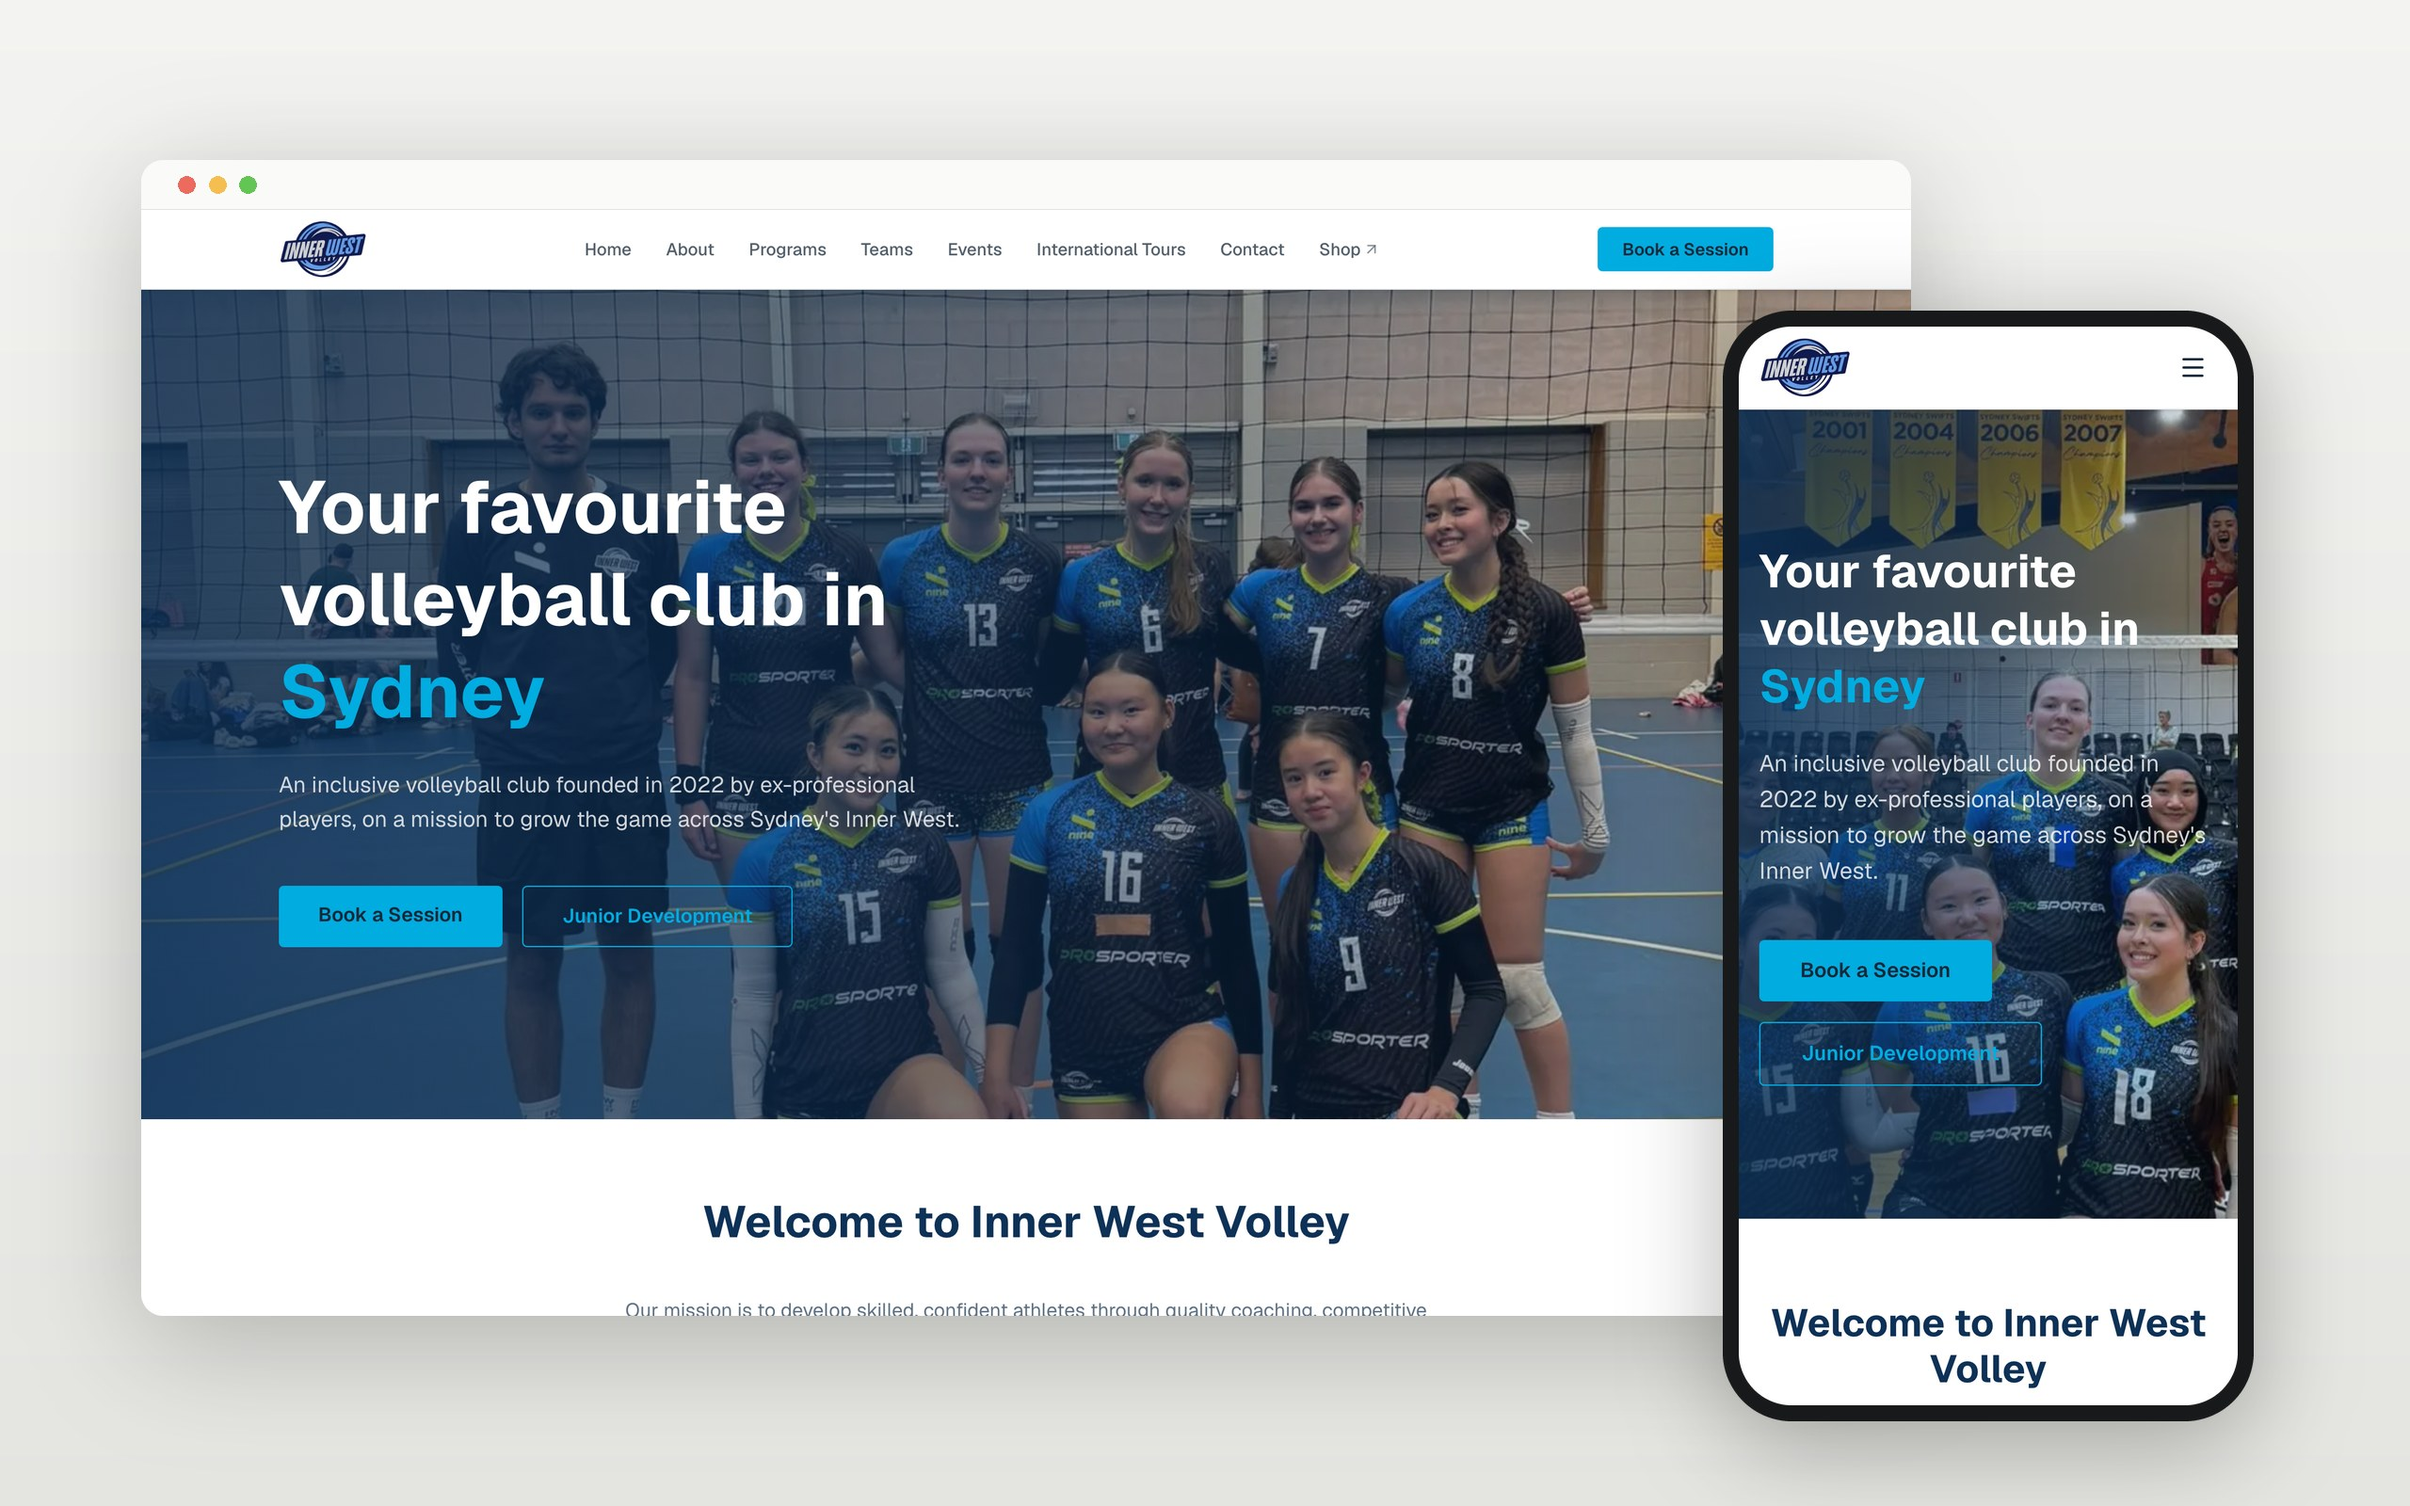
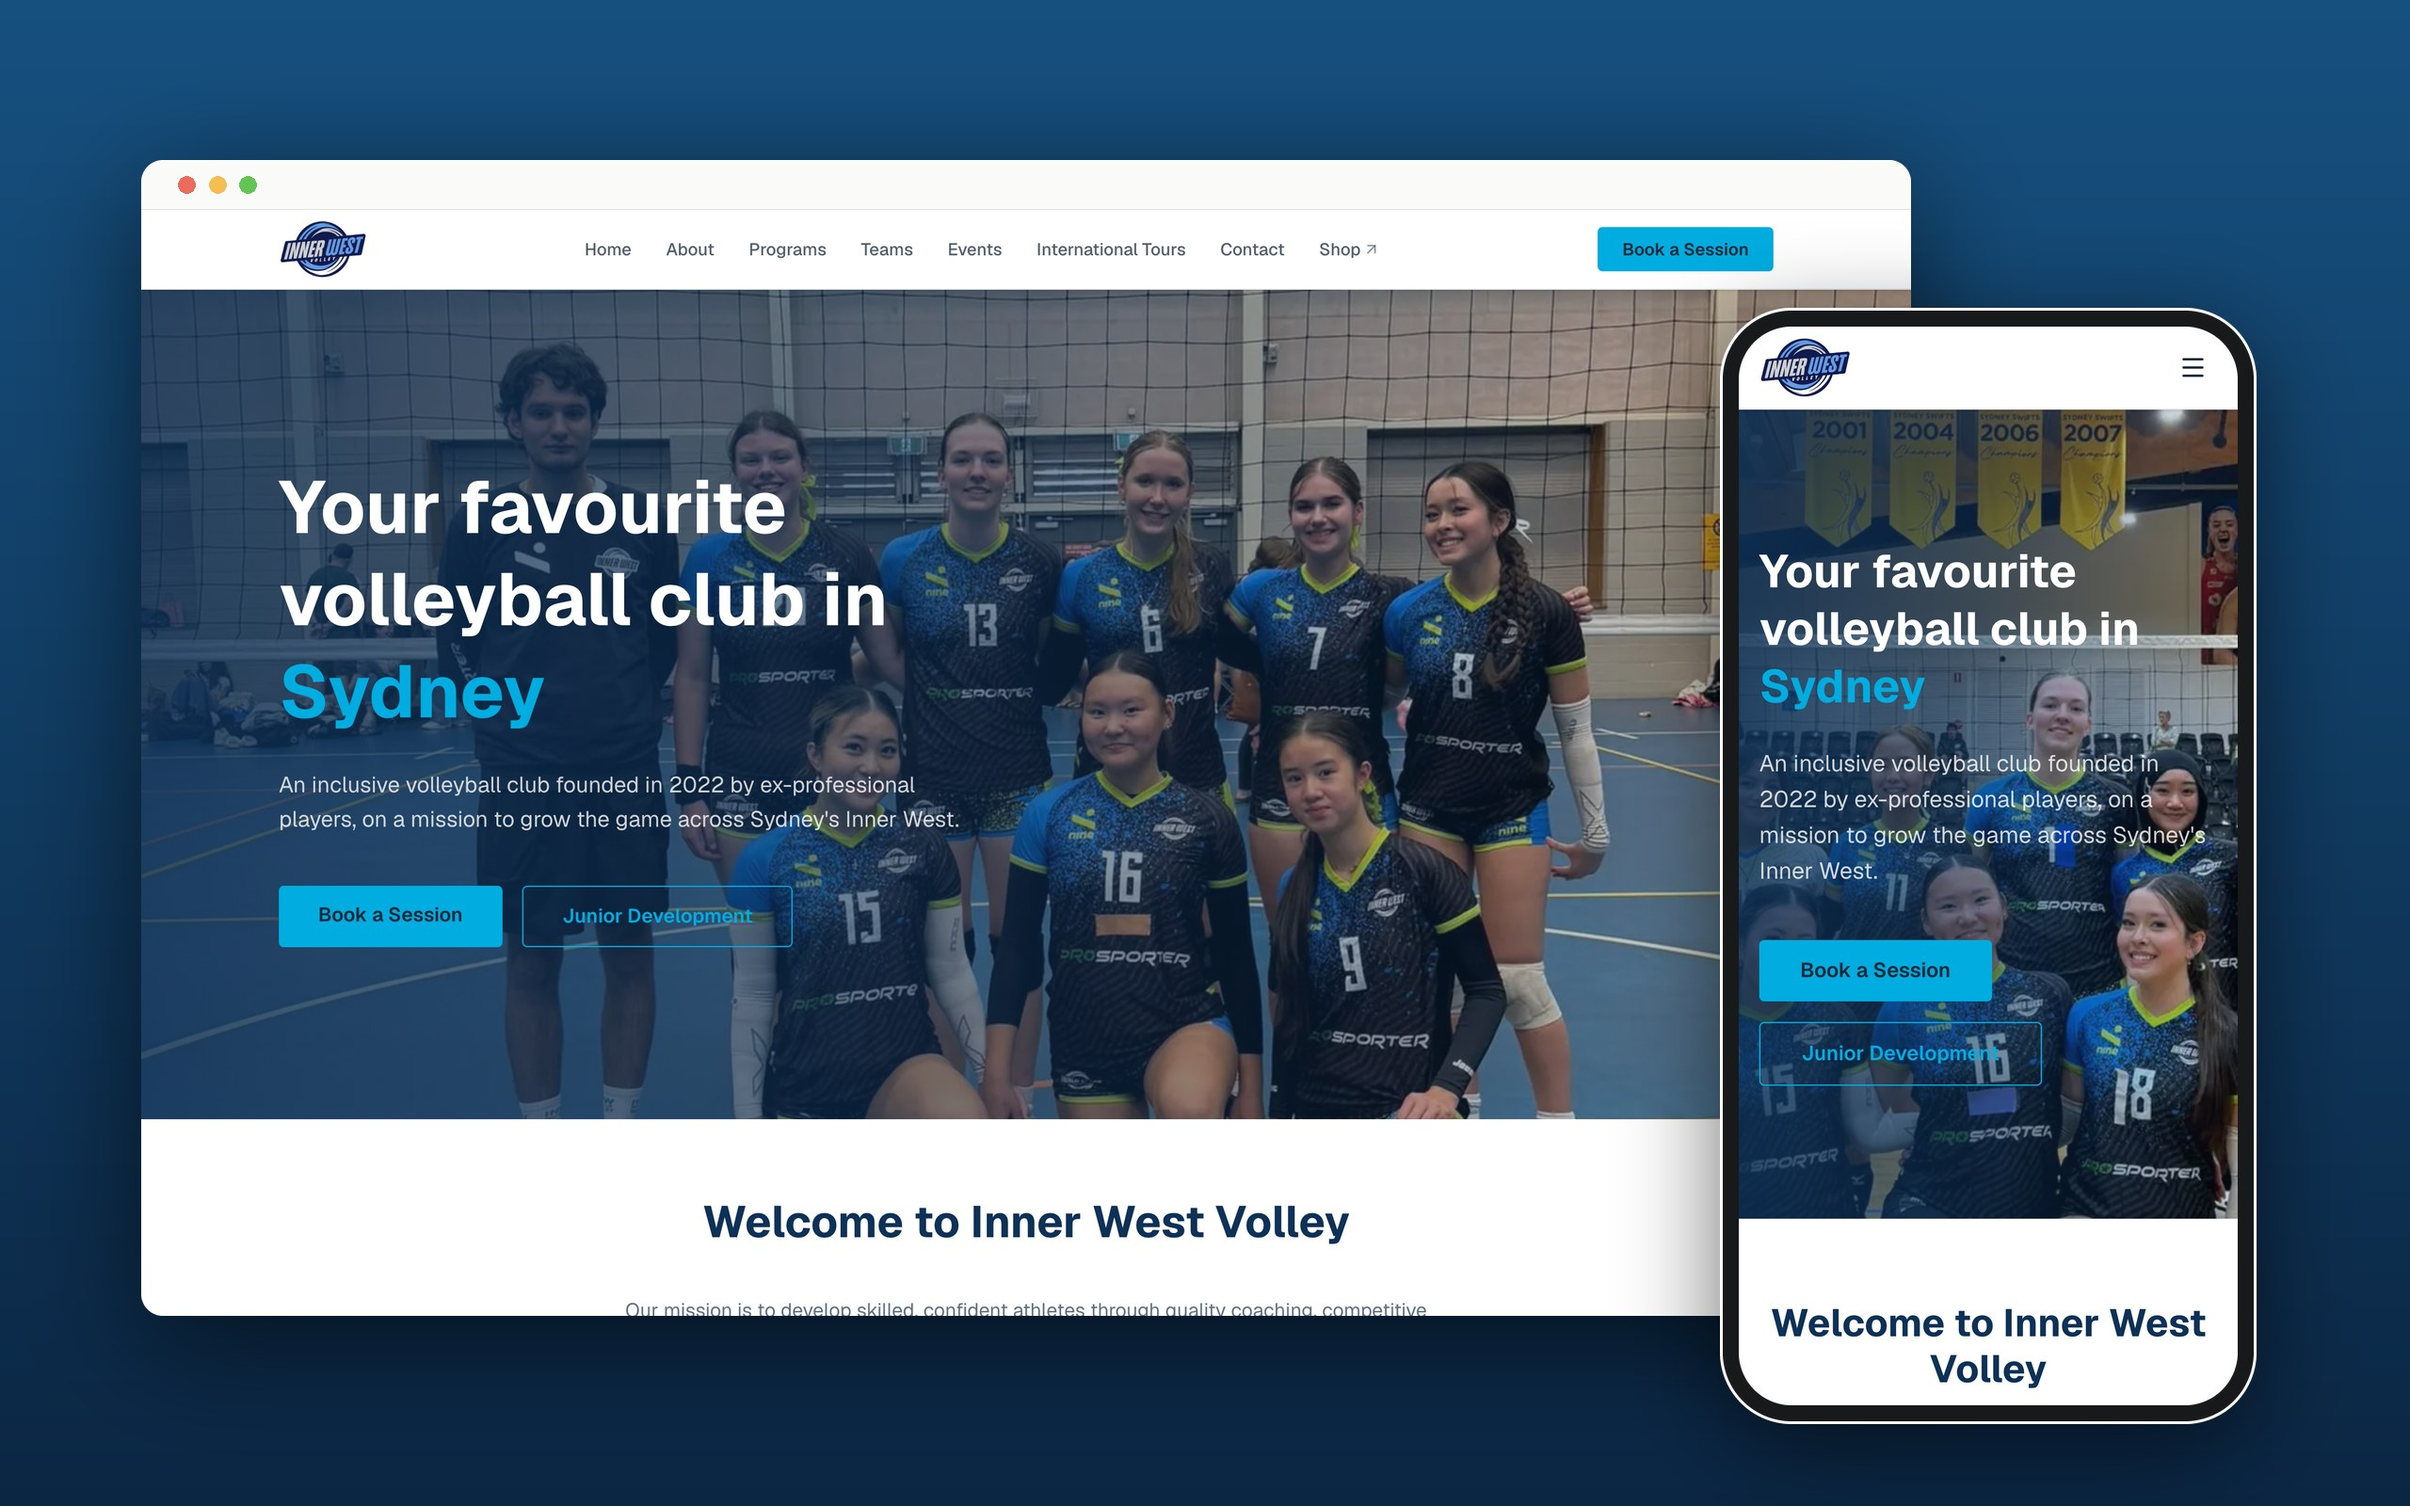
Tint client covers in their brand colours and drop the configurator play mark

diff --git a/components/work/previews/ConfiguratorPreview.tsx b/components/work/previews/ConfiguratorPreview.tsx
@@ -114,7 +114,7 @@ const text = (x: number, y: number, widths: number[]) =>
  * Preview tile for the 3D configurator and website (client work, in progress).
  * Left, a single shelving bay half built on a floor grid, as in the
  * configurator: placed parts solid, parts still to come dashed. Right, the
- * website for the range, with a finished fixture in its looping hero footage.
+ * website for the range, with a finished fixture in its hero.
  * Stands in until there are screenshots we can show publicly.
  */
 export function ConfiguratorPreview() {
@@ -138,11 +138,9 @@ export function ConfiguratorPreview() {
         {[0, 1, 2].map((i) => (
           <circle key={i} cx={x + 5 + i * 4} cy={y + bar / 2} r="1.1" fill={LINE} fillOpacity="0.35" stroke="none" />
         ))}
-        {/* Hero footage: the finished fixture, with a play mark for the loop */}
+        {/* Hero: the finished fixture */}
         <rect x={x + 8} y={y + 17} width={w - 16} height="70" rx="1.5" fill={TOP} stroke="none" />
         {finished.body}
-        <circle cx={x + 20} cy={y + 76} r="5.5" fill={PAGE} fillOpacity="0.9" stroke="none" />
-        <path d={`M${x + 18.5} ${y + 73.4} L${x + 22.8} ${y + 76} L${x + 18.5} ${y + 78.6} Z`} fill={LINE} fillOpacity="0.8" stroke="none" />
         <g stroke="none">{text(x + 8, y + 97, [74, 104, 86])}</g>
         <rect x={x + 8} y={y + 115} width="30" height="10" rx="1.5" fill={LINE} fillOpacity="0.85" stroke="none" />
         <rect x={x + 42} y={y + 115} width="30" height="10" rx="1.5" strokeOpacity="0.5" strokeWidth="0.6" />

diff --git a/components/work/previews/WelcomeBlossomPreview.tsx b/components/work/previews/WelcomeBlossomPreview.tsx
@@ -6,7 +6,7 @@ import styles from "./WelcomeBlossomPreview.module.css";
 /**
  * Preview tile for Welcome Blossom (client work, live at welcomeblossom.com.au).
  * The home page on desktop and phone, captured from the live site and framed on
- * a soft ground (desktop 1440x900 @2x, phone 390x844 @3x).
+ * a ground in the brand colour (desktop 1440x900 @2x, phone 390x844 @3x).
  */
 export function WelcomeBlossomPreview() {
   return (

diff --git a/components/work/previews/InnerwestPreview.tsx b/components/work/previews/InnerwestPreview.tsx
@@ -6,7 +6,7 @@ import styles from "./InnerwestPreview.module.css";
 /**
  * Preview tile for Inner West Volley (client work, live at innerwestvolley.com.au).
  * The home page on desktop and phone, captured from the live site and framed on
- * a soft ground (desktop 1440x900 @2x, phone 390x844 @3x).
+ * a ground in the brand colour (desktop 1440x900 @2x, phone 390x844 @3x).
  */
 export function InnerwestPreview() {
   return (

diff --git a/components/work/previews/ProvolleyPreview.tsx b/components/work/previews/ProvolleyPreview.tsx
@@ -6,7 +6,7 @@ import styles from "./ProvolleyPreview.module.css";
 /**
  * Preview tile for ProVolley Academy (client work, live at provolley.com.au).
  * The home page on desktop and phone, captured from the live site and framed on
- * a soft ground (desktop 1440x900 @2x, phone 390x844 @3x).
+ * a ground in the brand colour (desktop 1440x900 @2x, phone 390x844 @3x).
  */
 export function ProvolleyPreview() {
   return (

diff --git a/components/work/previews/ProsporterPreview.tsx b/components/work/previews/ProsporterPreview.tsx
@@ -6,7 +6,7 @@ import styles from "./ProsporterPreview.module.css";
 /**
  * Preview tile for ProSporter (client work, live at prosporter.com.au).
  * The home page on desktop and phone, captured from the live site and framed on
- * a soft ground (desktop 1440x900 @2x, phone 390x844 @3x).
+ * a ground in the brand colour (desktop 1440x900 @2x, phone 390x844 @3x).
  */
 export function ProsporterPreview() {
   return (

diff --git a/components/work/previews/InnerwestPreview.module.css b/components/work/previews/InnerwestPreview.module.css
@@ -1,5 +1,5 @@
 .tile {
-  background: #ebebe8;
+  background: #0b2643;
   border: 1px solid var(--color-line-soft);
 }
 

diff --git a/components/work/previews/ProsporterPreview.module.css b/components/work/previews/ProsporterPreview.module.css
@@ -1,5 +1,5 @@
 .tile {
-  background: #ebebe8;
+  background: #0d170b;
   border: 1px solid var(--color-line-soft);
 }
 

diff --git a/components/work/previews/ProvolleyPreview.module.css b/components/work/previews/ProvolleyPreview.module.css
@@ -1,5 +1,5 @@
 .tile {
-  background: #ebebe8;
+  background: #0b1f4d;
   border: 1px solid var(--color-line-soft);
 }
 

diff --git a/components/work/previews/WelcomeBlossomPreview.module.css b/components/work/previews/WelcomeBlossomPreview.module.css
@@ -1,5 +1,5 @@
 .tile {
-  background: #ebebe8;
+  background: #f1d3d6;
   border: 1px solid var(--color-line-soft);
 }
 
